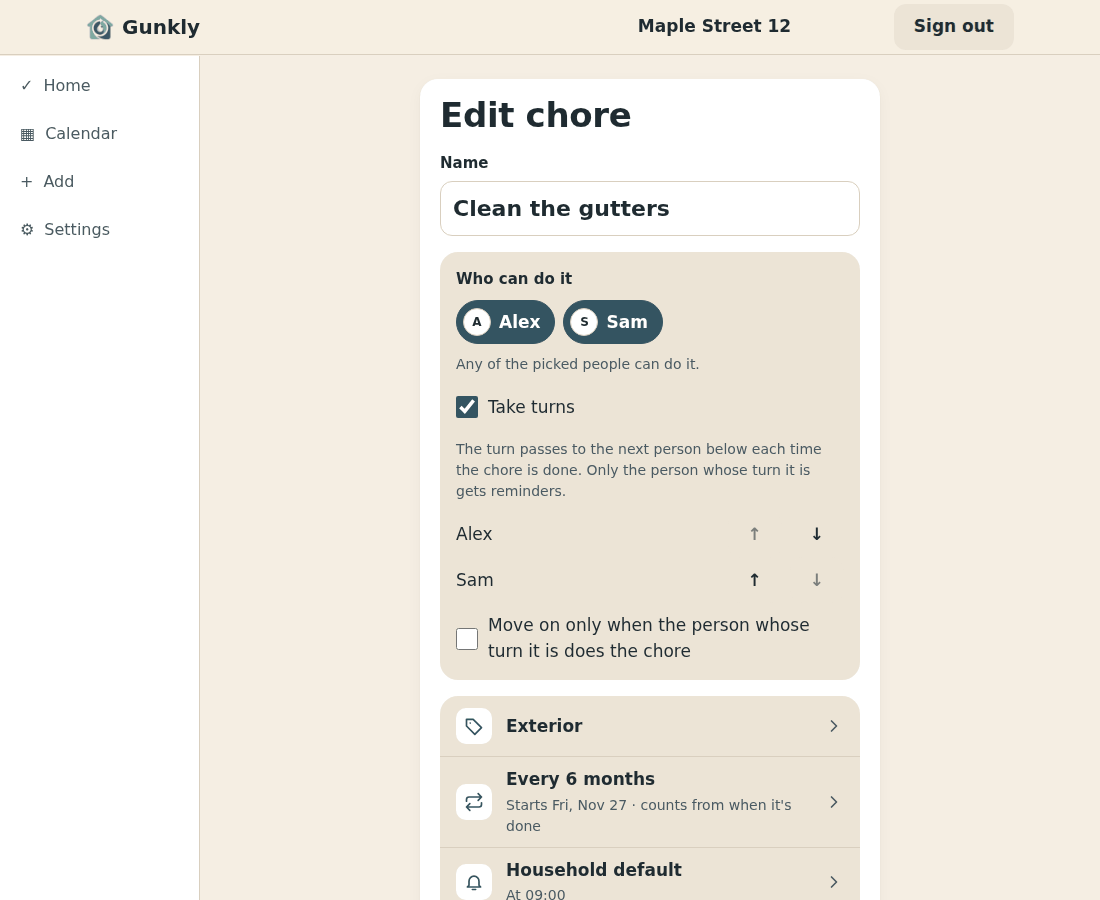
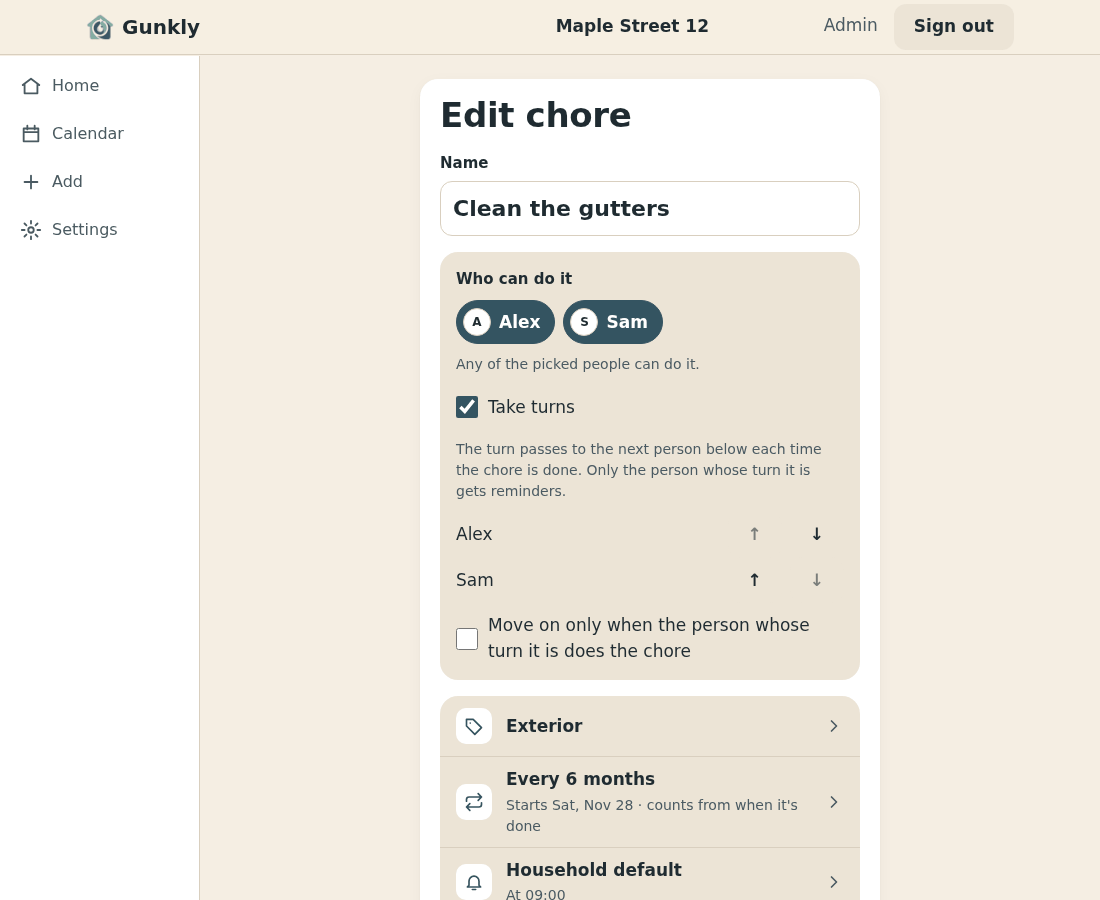
Release 0.13.0: changelog, more screenshots, README gallery
The screenshot run now also captures the calendar and a chore on a phone,
Sign-in & security, Notifications, Administration, the welcome flow and an
invite link (14 images, demo users named alex, sam and robin, the generic
SSO label everywhere). README shows five rows of pairs.

Claude-Session: https://claude.ai/code/session_012sYw2vmpP5C3ScwTST1Hwi

diff --git a/web/e2e/screenshots.spec.ts b/web/e2e/screenshots.spec.ts
@@ -1,37 +1,86 @@
+import type { Page } from "@playwright/test";
 import { seedDemo } from "./demo";
-import { expect, setTheme, test } from "./helpers";
+import { expect, mailMark, nextMail, setTheme, test } from "./helpers";
 
 // README and website screenshots with synthetic demo data (Alex, Sam, "Maple Street 12").
 // Skipped in normal runs; `npm run screenshots` writes docs/assets/screens/*.png.
 // Run it before every release; the website copies these files (`npm run sync` there).
+// Phone shots are the viewport only (never full page), so the fixed tab bar sits at the bottom where it belongs.
 test.skip(
   !process.env.GUNKLY_SCREENSHOTS,
   "set GUNKLY_SCREENSHOTS=1 (npm run screenshots)",
 );
 const OUT = "../docs/assets/screens/";
-test("README and website screenshots", async ({ world, browser }) => {
-  test.setTimeout(120_000);
-  const { alex, gutters } = await seedDemo(world);
 
+// The docs show the generic single sign-on label (no provider name set) instead of the e2e fake provider's "Test IdP".
+async function genericSSO(page: Page) {
+  await page.route("**/api/v1/instance", async (route) => {
+    const res = await route.fetch();
+    const body = await res.json();
+    if (body.sso) body.sso.name = "";
+    await route.fulfill({ response: res, json: body });
+  });
+}
+test("README and website screenshots", async ({ world, browser }) => {
+  test.setTimeout(180_000);
+  // Alex is an admin, so the Administration shots have someone to show.
+  const { alex, sam, h, gutters } = await seedDemo(world, {
+    admin: true,
+    names: true,
+  });
+  // A confirmed email address, so reminders by email are on and Notifications shows a working setup.
+  const email = "alex@example.com";
+  await alex.api.call(
+    "POST",
+    "/session/step-up",
+    { password: alex.password },
+    204,
+  );
+  const mark = mailMark();
+  await alex.api.call("PATCH", "/account/email", { email });
+  const confirm = await nextMail(email, /Confirm your email address/, mark);
+  await alex.api.post("/account/email/verify", {
+    token: new URL(confirm.link, world.baseURL).searchParams.get("token"),
+  });
+
+  type View = { width: number; height: number };
   const shot = async (
     path: string,
     file: string,
     theme: "light" | "dark",
-    viewport: { width: number; height: number },
+    viewport: View,
     scale: number,
     ready: string | RegExp,
+    opts: {
+      as?: typeof alex | null; // null: signed out
+      before?: (page: Page) => Promise<void>;
+    } = {},
   ) => {
-    const context = await browser.newContext({
-      storageState: await alex.api.storageState(),
-      viewport,
-      deviceScaleFactor: scale,
-      colorScheme: theme,
-      baseURL: world.baseURL,
-    });
+    const user = opts.as === undefined ? alex : opts.as;
+    const phone = viewport.width < 500;
+    const context = user
+      ? await browser.newContext({
+          storageState: await user.api.storageState(),
+          viewport,
+          deviceScaleFactor: scale,
+          colorScheme: theme,
+          baseURL: world.baseURL,
+          isMobile: phone,
+          hasTouch: phone,
+        })
+      : await world.newContext({
+          viewport,
+          deviceScaleFactor: scale,
+          colorScheme: theme,
+          isMobile: phone,
+          hasTouch: phone,
+        });
     const page = await context.newPage();
     await page.goto(path);
     await expect(page.getByText(ready).first()).toBeVisible();
     await setTheme(page, theme);
+    if (opts.before) await opts.before(page);
+    await page.evaluate(() => document.fonts.ready);
     await page.waitForTimeout(400);
     await page.screenshot({ path: OUT + file });
     await context.close();
@@ -57,7 +106,7 @@ test("README and website screenshots", async ({ world, browser }) => {
     "/calendar",
     "calendar-desktop-dark.png",
     "dark",
-    { width: 1100, height: 760 },
+    { width: 1100, height: 650 },
     1,
     "Subscribe",
   );
@@ -78,6 +127,75 @@ test("README and website screenshots", async ({ world, browser }) => {
     /^Invites$/,
   );
 
+  await shot(
+    "/calendar",
+    "calendar-phone-light.png",
+    "light",
+    { width: 360, height: 860 },
+    1.5,
+    "Subscribe",
+  );
+
+  // Chore detail after Sam did one with a note, so its history isn't empty.
+  const chores = await alex.api.get<{ id: string; name: string }[]>(
+    `/households/${h.id}/chores`,
+  );
+  const bedding = chores.find((c) => c.name === "Wash the bedding")!.id;
+  await sam.api.post(`/households/${h.id}/chores/${bedding}/complete`, {
+    note: "Duvet covers too",
+  });
+  await shot(
+    `/chores/${bedding}`,
+    "chore-detail-phone-light.png",
+    "light",
+    phone,
+    1.5,
+    "Duvet covers too",
+  );
+  await alex.api.call("PATCH", "/me", { emailReminders: true });
+  await shot(
+    "/settings/notifications",
+    "notifications-phone-dark.png",
+    "dark",
+    phone,
+    1.5,
+    "Ways to get reminders",
+  );
+  await shot(
+    "/admin/users",
+    "admin-users-desktop-light.png",
+    "light",
+    { width: 1100, height: 610 },
+    1,
+    "Sam",
+  );
+
+  // Someone new: the welcome flow's first step, and an invite link opened while signed out.
+  const newcomer = await world.newUser({ username: "robin" });
+  await newcomer.api.call("PATCH", "/me", { displayName: "Robin" });
+  await shot(
+    "/welcome",
+    "welcome-phone-light.png",
+    "light",
+    { width: 360, height: 840 },
+    1.5,
+    "Name your household",
+    { as: newcomer },
+  );
+  const invite = await alex.api.post<{ token: string }>(
+    `/households/${h.id}/invites`,
+    { role: "member", expiresInHours: 72 },
+  );
+  await shot(
+    `/invite/${invite.token}`,
+    "invite-phone-light.png",
+    "light",
+    { width: 360, height: 900 },
+    1.5,
+    "Maple Street 12",
+    { as: null },
+  );
+
   // The sign-in page with the passkey and single sign-on buttons (signed out, narrow screen).
   {
     const context = await world.newContext({
@@ -86,13 +204,7 @@ test("README and website screenshots", async ({ world, browser }) => {
       colorScheme: "light",
     });
     const page = await context.newPage();
-    // The docs show the generic label (no provider name set) instead of the e2e fake provider's "Test IdP".
-    await page.route("**/api/v1/instance", async (route) => {
-      const res = await route.fetch();
-      const body = await res.json();
-      if (body.sso) body.sso.name = "";
-      await route.fulfill({ response: res, json: body });
-    });
+    await genericSSO(page);
     await page.goto("/signin");
     await expect(
       page.getByRole("button", { name: "Sign in with a passkey" }),
@@ -115,6 +227,7 @@ test("README and website screenshots", async ({ world, browser }) => {
       baseURL: world.baseURL,
     });
     const page = await context.newPage();
+    await genericSSO(page);
     const cdp = await context.newCDPSession(page);
     await cdp.send("WebAuthn.enable");
     await cdp.send("WebAuthn.addVirtualAuthenticator", {
@@ -133,9 +246,14 @@ test("README and website screenshots", async ({ world, browser }) => {
     await section.getByLabel("Name").fill("Alex’s laptop");
     await section.getByRole("button", { name: "Create passkey" }).click();
     const confirm = page.getByRole("dialog", { name: "Confirm it's you" });
-    await confirm.getByLabel("Password").fill(alex.password);
-    await confirm.getByRole("button", { name: "Confirm" }).click();
-    await section.getByRole("button", { name: "I've saved them" }).click();
+    const saved = section.getByRole("button", { name: "I've saved them" });
+    // The password check is skipped while the step-up from confirming the email address is still fresh.
+    await expect(confirm.or(saved)).toBeVisible();
+    if (await confirm.isVisible()) {
+      await confirm.getByLabel("Password").fill(alex.password);
+      await confirm.getByRole("button", { name: "Confirm" }).click();
+    }
+    await saved.click();
     await expect(section.getByText("Alex’s laptop")).toBeVisible();
     await setTheme(page, "dark");
     await expect(page.getByText("Passkey added.")).toHaveCount(0); // the toast is gone
@@ -145,7 +263,9 @@ test("README and website screenshots", async ({ world, browser }) => {
     await page.setViewportSize({ width: 1000, height: 2400 });
     await page.evaluate(() => window.scrollTo(0, 0));
     await page.waitForTimeout(300);
-    const box = await page.getByRole("region", { name: "Ways to sign in" }).boundingBox();
+    const box = await page
+      .getByRole("region", { name: "Ways to sign in" })
+      .boundingBox();
     if (!box) throw new Error("Ways to sign in card not visible");
     await page.screenshot({
       path: OUT + "account-security-passkey-desktop-dark.png",
@@ -156,6 +276,16 @@ test("README and website screenshots", async ({ world, browser }) => {
         height: box.height + 32,
       },
     });
+    // The whole page in light, freshly loaded: the verdict on top, then every way to sign in.
+    await page.setViewportSize({ width: 1100, height: 900 });
+    await page.reload();
+    await expect(
+      page.getByRole("region", { name: "Ways to sign in" }),
+    ).toBeVisible();
+    await setTheme(page, "light");
+    await page.evaluate(() => document.fonts.ready);
+    await page.waitForTimeout(400);
+    await page.screenshot({ path: OUT + "account-security-desktop-light.png" });
     await context.close();
   }
 });

diff --git a/web/e2e/helpers.ts b/web/e2e/helpers.ts
@@ -101,7 +101,8 @@ export type World = {
   baseURL: string;
   admin: Api;
   signIn: (username: string, password: string) => Promise<Api>;
-  newUser: (opts?: { admin?: boolean }) => Promise<User>;
+  /** A new user; `username` only where the run is known to be fresh (screenshots). */
+  newUser: (opts?: { admin?: boolean; username?: string }) => Promise<User>;
   /** A fresh client with no session, with its own IP, tracked for CSP violations. */
   newContext: (opts?: Parameters<Browser['newContext']>[0]) => Promise<BrowserContext>;
   /** A household; areas are off unless `areas` is set (then with the starter areas). */
@@ -168,7 +169,7 @@ export const test = base.extend<{ world: World; csp: string[] }>({
       signIn,
       newContext,
       async newUser(opts = {}) {
-        const username = uniq('user');
+        const username = opts.username ?? uniq('user');
         const displayName = `Test ${username}`;
         await admin.post('/admin/users', { username, password: PASSWORD, displayName, isAdmin: !!opts.admin });
         const a = await signIn(username, PASSWORD);

diff --git a/web/e2e/demo.ts b/web/e2e/demo.ts
@@ -2,10 +2,17 @@ import { type World, ymd } from "./helpers";
 
 // Synthetic demo data for screenshots (README, website, design review): Alex and Sam share
 // "Maple Street 12" with areas and ten chores, some overdue, some taking turns.
-export async function seedDemo(world: World, opts: { admin?: boolean } = {}) {
-  const alex = await world.newUser(opts);
+// `names`: usernames "alex" and "sam" (only on a fresh server, as in the screenshot run).
+export async function seedDemo(
+  world: World,
+  opts: { admin?: boolean; names?: boolean } = {},
+) {
+  const alex = await world.newUser({
+    admin: opts.admin,
+    ...(opts.names ? { username: "alex" } : {}),
+  });
   await alex.api.call("PATCH", "/me", { displayName: "Alex" });
-  const sam = await world.newUser();
+  const sam = await world.newUser(opts.names ? { username: "sam" } : {});
   await sam.api.call("PATCH", "/me", { displayName: "Sam" });
   const h = await world.household(alex, "Maple Street 12", { areas: true });
   const inv = await alex.api.post<{ token: string }>(

diff --git a/README.md b/README.md
@@ -32,13 +32,23 @@ A self-hostable, **AI-friendly** chore tracker for recurring household chores an
 
 | Home, phone (light) | Home, phone (dark) |
 |-|-|
-| <img alt="Home screen on a phone, light theme: overdue and due-today chores with Done buttons" src="docs/assets/screens/home-phone-light.png" width="270"> | <img alt="Home screen on a phone, dark theme" src="docs/assets/screens/home-phone-dark.png" width="270"> |
+| <img alt="Home screen on a phone, light theme: overdue and today's chores as two-line rows with round check buttons" src="docs/assets/screens/home-phone-light.png" width="270"> | <img alt="Home screen on a phone, dark theme" src="docs/assets/screens/home-phone-dark.png" width="270"> |
 
 | Calendar, desktop (dark) | Chore editor, desktop (light) |
 |-|-|
-| <img alt="Month calendar with the chores due on the selected day" src="docs/assets/screens/calendar-desktop-dark.png" width="420"> | <img alt="Edit chore form: name, people taking turns, then rows for area, repeat and reminders" src="docs/assets/screens/chore-editor-desktop-light.png" width="420"> |
+| <img alt="Month calendar with a red count on past days with open chores, and the selected day's chores with Done buttons" src="docs/assets/screens/calendar-desktop-dark.png" width="420"> | <img alt="Edit chore form: name, people taking turns, then rows for area, repeat and reminders" src="docs/assets/screens/chore-editor-desktop-light.png" width="420"> |
 
-<p align="center"><img alt="Settings, the household's People group: your settings groups and the household's on the side, members and invites next to them" src="docs/assets/screens/household-desktop-light.png" width="420"><br><sub>Settings (light): your own groups, then the current household's General, People, Notifications, Connections and Data.</sub></p>
+| Calendar, phone (light) | Chore detail, phone (light) |
+|-|-|
+| <img alt="Month calendar on a phone with the selected day's chores listed below" src="docs/assets/screens/calendar-phone-light.png" width="270"> | <img alt="A chore's page on a phone: next date, area, repeat, people and reminders, a Done button with snooze, skip and pause, and its history with a note" src="docs/assets/screens/chore-detail-phone-light.png" width="270"> |
+
+| Sign-in & security, desktop (light) | Administration, desktop (light) |
+|-|-|
+| <img alt="Settings, Sign-in and security: a verdict line saying the account is protected by a password and a passkey, then every way to sign in with its state and one action" src="docs/assets/screens/account-security-desktop-light.png" width="420"> | <img alt="Administration, Users: a one-line banner with recent security events and a Review link above the list of users" src="docs/assets/screens/admin-users-desktop-light.png" width="420"> |
+
+| Notifications, phone (dark) | Invite link, phone (light) |
+|-|-|
+| <img alt="Settings, Notifications on a phone: a status line saying reminders come by email, then this device, email and messaging apps with their state" src="docs/assets/screens/notifications-phone-dark.png" width="270"> | <img alt="An invite link opened on a phone: Join Maple Street 12, Alex invited you, and a form to create an account" src="docs/assets/screens/invite-phone-light.png" width="270"> |
 
 All screenshots show synthetic demo data.
 

diff --git a/CHANGELOG.md b/CHANGELOG.md
@@ -4,9 +4,13 @@ All notable changes are documented here. The format follows [Keep a Changelog](h
 
 ## [Unreleased]
 
+## [0.13.0] - 2026-11-28
+
+A design pass across every screen: calmer spacing, line icons, denser lists on phones, and settings pages that say plainly where you stand.
+
 ### Changed
 
-- Design pass, groundwork: spacing inside cards is even (headings and paragraphs no longer add their own margins on top of the gap); card titles stand out more from field labels and card descriptions use one quiet size; a form's main button is full width on phones and sits at the start on wider screens.
+- Everywhere: spacing inside cards is even (headings and paragraphs no longer add their own margins on top of the gap); card titles stand out more from field labels and card descriptions use one quiet size; a form's main button is full width on phones and sits at the start on wider screens.
 - Navigation uses line icons (house, calendar, plus, gear) instead of text characters, in both the sidebar and the phone tab bar; the desktop sidebar now runs the full height of long pages.
 - With more than one household, the household name in the header shows a chevron so it reads as a switcher (still a native select for keyboard and screen readers).
 - On phones, a Settings or Administration page shows a small back link and the page's own name as its title, instead of "Settings" twice.
